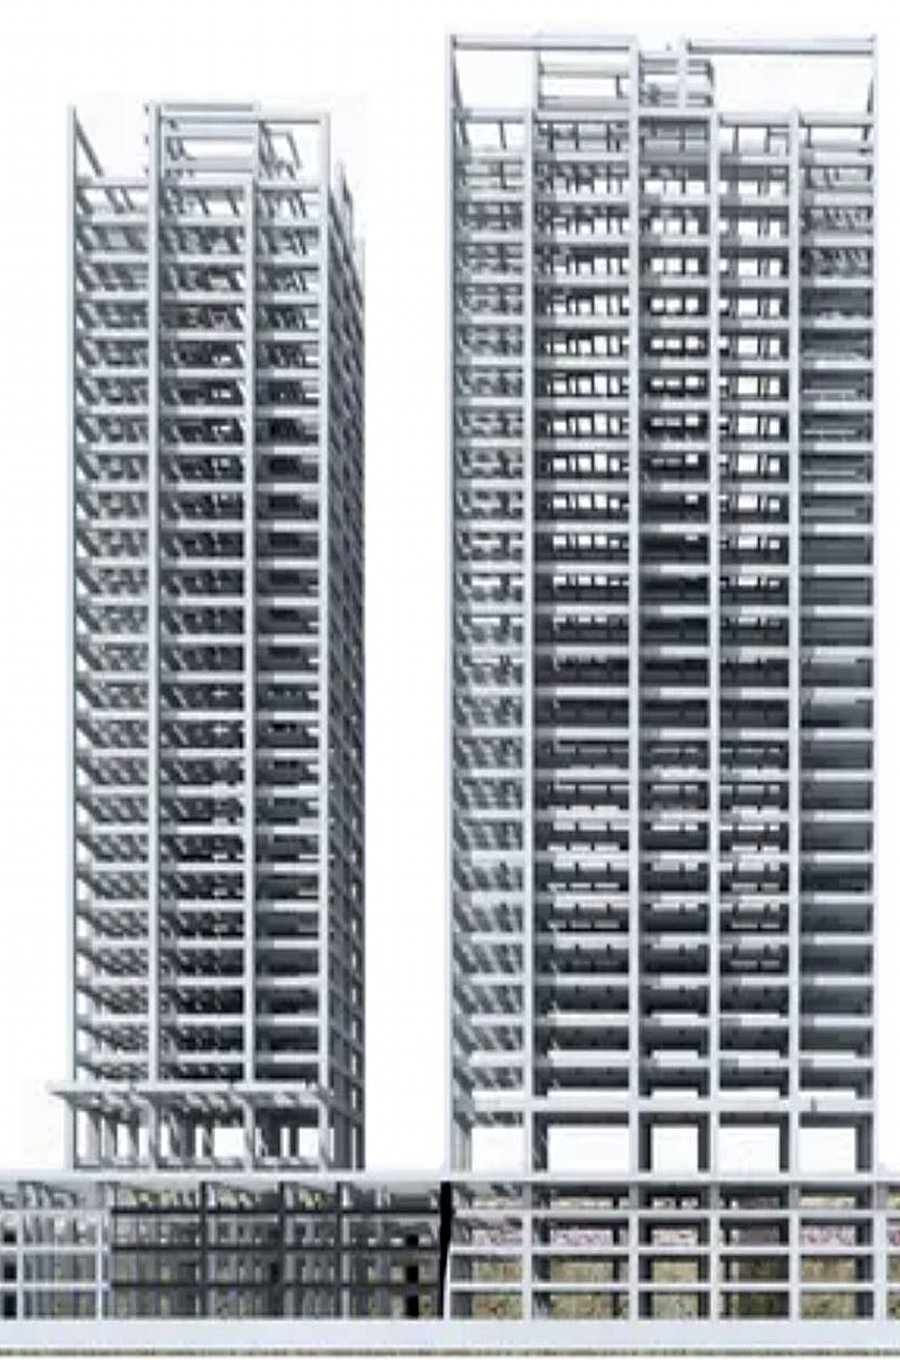
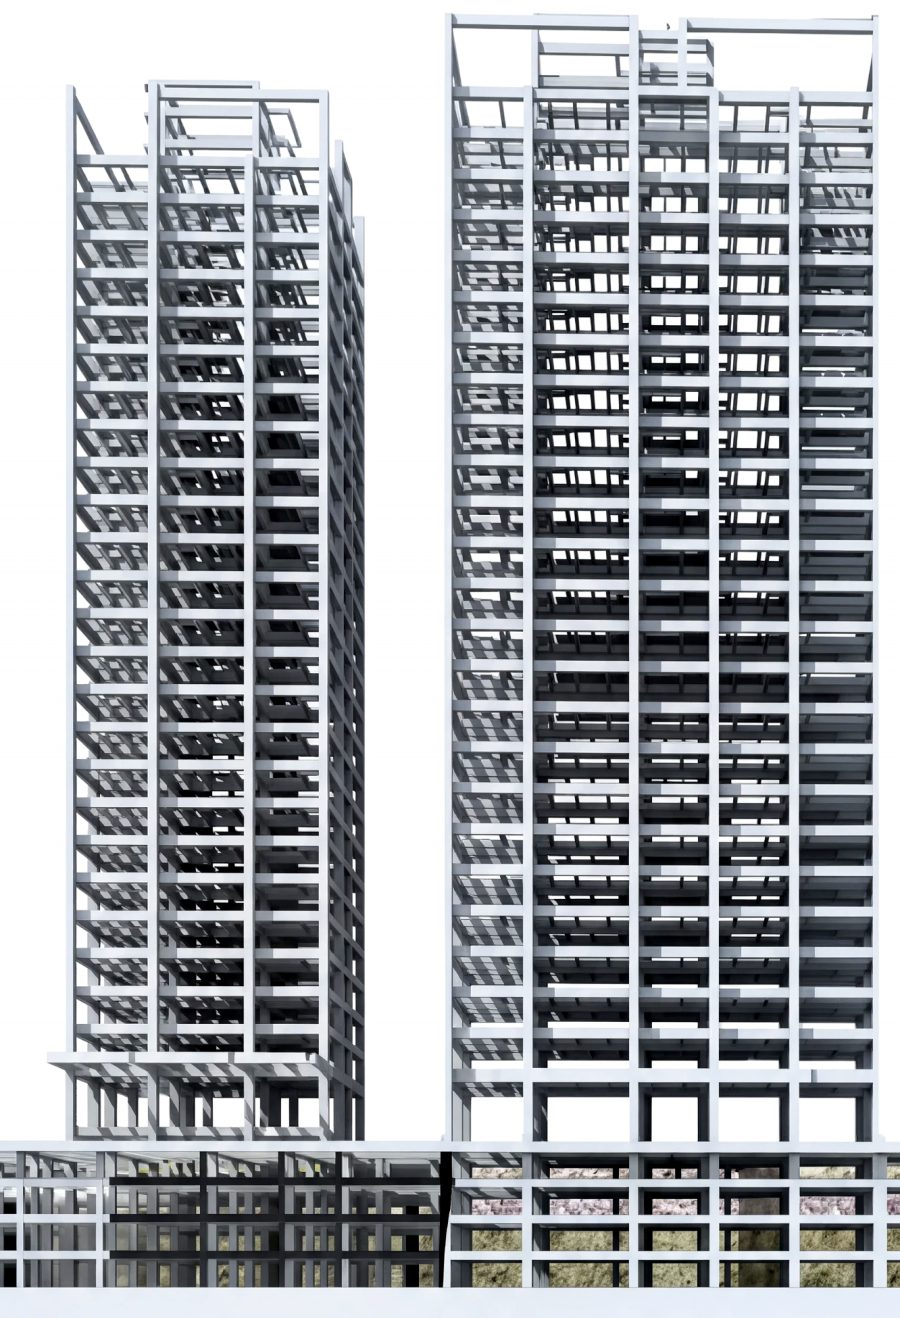
Add files via upload

diff --git a/forworld-app.py b/forworld-app.py
@@ -47,10 +47,10 @@ LATER_STAGES = [
 
 # 樓層剖面圖：assets/building_done.jpg (已完成) 疊在 assets/building_todo.jpg (淡影) 上
 # 下面數字是「各層樓板在圖上的高度位置」(從圖片頂端算起的 %)，換圖才需要改
-BLDG_FLOOR2_PCT = 80.63    # 2F 樓板
-BLDG_FLOOR_STEP_PCT = 3.005  # 每層樓高
-BLDG_GROUND_PCT = 86.28    # 1F 地面
-BLDG_BASEMENT_PCT = {-1: 89.01, -2: 91.62, -3: 94.24, -4: 96.96}  # B1～B4 樓板
+BLDG_FLOOR2_PCT = 81.13    # 2F 樓板
+BLDG_FLOOR_STEP_PCT = 3.064  # 每層樓高
+BLDG_GROUND_PCT = 86.67    # 1F 地面
+BLDG_BASEMENT_PCT = {-1: 89.64, -2: 92.31, -3: 94.97, -4: 97.85}  # B1～B4 樓板
 
 RAW_BASE = f"https://raw.githubusercontent.com/{GITHUB_USER}/{GITHUB_REPO}/{GITHUB_BRANCH}"
 TW_TZ = timezone(timedelta(hours=8))
